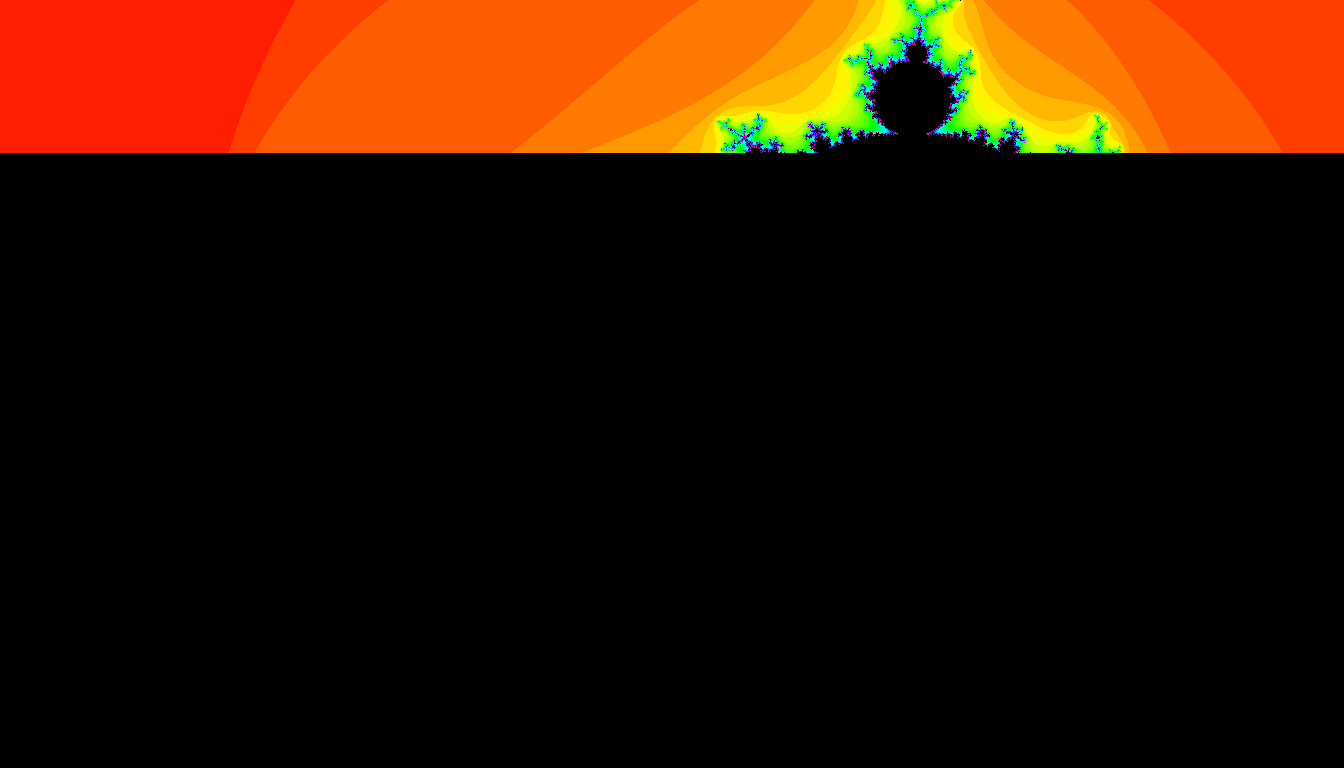
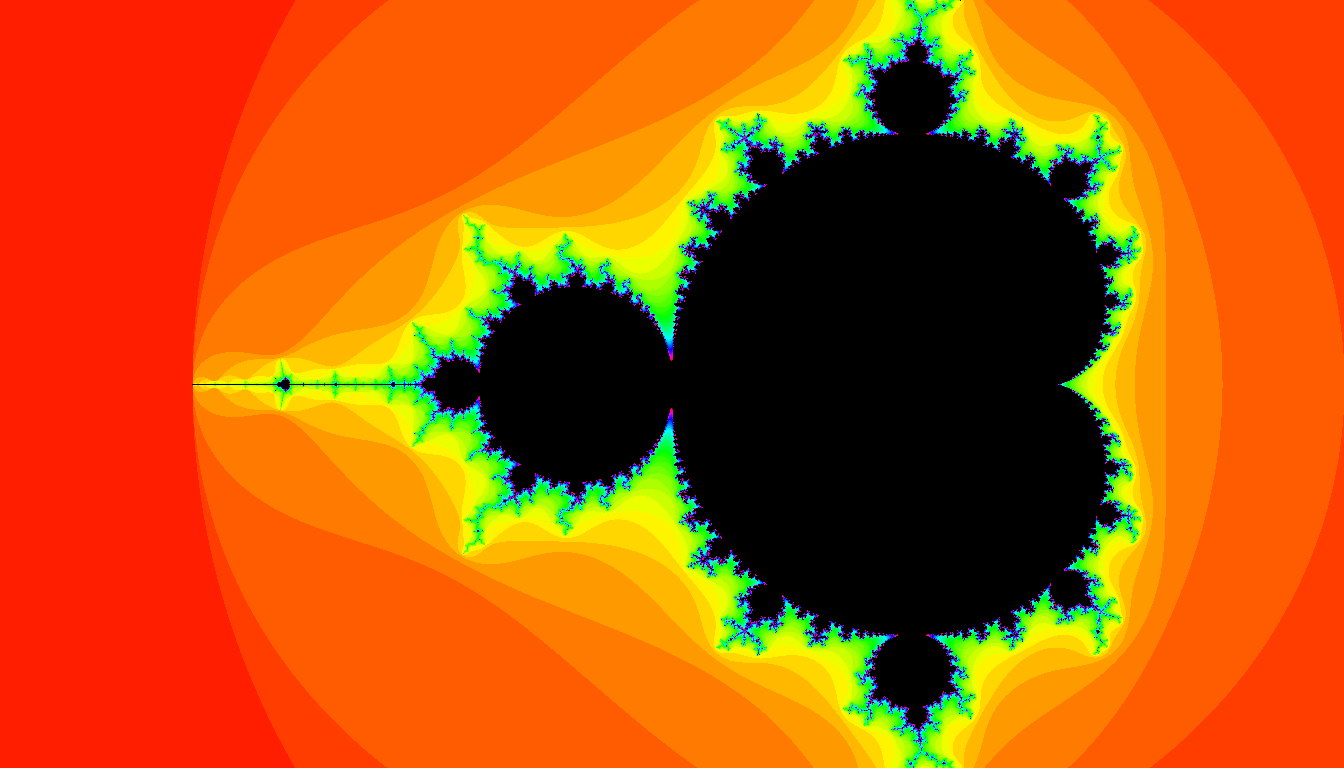
different approach, now dividing in main based on rank instead of in calcManedlbrot

diff --git a/assignments/02/mandelbrot_mpi.cpp b/assignments/02/mandelbrot_mpi.cpp
@@ -1,12 +1,12 @@
+#include <mpi.h>
 #include <bits/chrono.h>
-#include <chrono>
 #include <cstdint>
 #include <cstdlib>
 #include <iostream>
+#include <chrono>
 #include <sys/time.h>
 #include <tuple>
 #include <vector>
-#include "mpi.h"
 
 // Include that allows to print result as an image
 // Also, ignore some warnings that pop up when compiling this as C++ mode
@@ -15,7 +15,7 @@
 #pragma GCC diagnostic ignored "-Wstringop-overflow"
 #define STB_IMAGE_WRITE_IMPLEMENTATION
 #include "stb_image_write.h"
-#pragma GCC diagnostic push
+#pragma GCC diagnostic pop
 
 constexpr int default_size_x = 1344;
 constexpr int default_size_y = 768;
@@ -27,139 +27,129 @@ constexpr int max_iterations = 10000;
 
 #define IND(Y, X, SIZE_Y, SIZE_X, CHANNEL) (Y * SIZE_X * num_channels + X * num_channels + CHANNEL)
 
-size_t index(int y, int x, int /*size_y*/, int size_x, int channel) { return y * size_x * num_channels + x * num_channels + channel; }
+size_t index(int y, int x, int /*size_y*/, int size_x, int channel) {
+    return y * size_x * num_channels + x * num_channels + channel;
+}
 
 using Image = std::vector<uint8_t>;
 
 auto HSVToRGB(double H, const double S, double V) {
-	if (H >= 1.0) {
-		V = 0.0;
-		H = 0.0;
-	}
+    if (H >= 1.0) {
+        V = 0.0;
+        H = 0.0;
+    }
 
-	const double step = 1.0 / 6.0;
-	const double vh = H / step;
+    const double step = 1.0 / 6.0;
+    const double vh = H / step;
 
-	const int i = (int)floor(vh);
+    const int i = (int)floor(vh);
 
-	const double f = vh - i;
-	const double p = V * (1.0 - S);
-	const double q = V * (1.0 - (S * f));
-	const double t = V * (1.0 - (S * (1.0 - f)));
-	double R = 0.0;
-	double G = 0.0;
-	double B = 0.0;
+    const double f = vh - i;
+    const double p = V * (1.0 - S);
+    const double q = V * (1.0 - (S * f));
+    const double t = V * (1.0 - (S * (1.0 - f)));
+    double R = 0.0;
+    double G = 0.0;
+    double B = 0.0;
 
-	// clang-format off
-	switch (i) {
-	case 0: { R = V; G = t; B = p; break; }
-	case 1: { R = q; G = V; B = p; break; }
-	case 2: { R = p; G = V; B = t; break; }
-	case 3: { R = p; G = q; B = V; break; }
-	case 4: { R = t; G = p; B = V; break; }
-	case 5: { R = V; G = p; B = q; break; }
-	}
-	// clang-format on
+    switch (i) {
+    case 0: { R = V; G = t; B = p; break; }
+    case 1: { R = q; G = V; B = p; break; }
+    case 2: { R = p; G = V; B = t; break; }
+    case 3: { R = p; G = q; B = V; break; }
+    case 4: { R = t; G = p; B = V; break; }
+    case 5: { R = V; G = p; B = q; break; }
+    }
 
-	return std::make_tuple(R, G, B);
+    return std::make_tuple(R, G, B);
 }
 
-void caclMandelbrotRow(Image &image, int size_x, int size_y, int start_row, int end_row, float left, float right, float bottom, float top) {
-	for (int pixel_y = start_row; pixel_y < end_row; pixel_y++) {
-		// scale y pixel into mandelbrot coordinate system
-		const float cy = (pixel_y / (float)size_y) * (top - bottom) + bottom;
-		for (int pixel_x = 0; pixel_x < size_x; pixel_x++) {
-			// scale x pixel into mandelbrot coordinate system
-			const float cx = (pixel_x / (float)size_x) * (right - left) + left;
-			float x = 0;
-			float y = 0;
-			int num_iterations = 0;
+void calcMandelbrot(Image &image, int size_x, int size_y, int start_y, int num_rows, int rank) {
 
-			// Check if the distance from the origin becomes
-			// greater than 2 within the max number of iterations.
-			while ((x * x + y * y <= 2 * 2) && (num_iterations < max_iterations)) {
-				float x_tmp = x * x - y * y + cx;
-				y = 2 * x * y + cy;
-				x = x_tmp;
-				num_iterations += 1;
-			}
+	std::cout << "Rank " << rank << " is calculating " << num_rows << " rows starting from " << start_y << " until " << start_y + size_y << std::endl;
 
-			// Normalize iteration and write it to pixel position
-			double value = fabs((num_iterations / (float)max_iterations)) * 200;
+    const float left = -2.5, right = 1;
+    const float bottom = -1, top = 1;
 
-			auto [red, green, blue] = HSVToRGB(value, 1.0, 1.0);
+    for (int pixel_y = start_y; pixel_y < start_y + num_rows; pixel_y++) {
+        const float cy = (pixel_y / (float)size_y) * (top - bottom) + bottom;
+        for (int pixel_x = 0; pixel_x < size_x; pixel_x++) {
+            const float cx = (pixel_x / (float)size_x) * (right - left) + left;
+            float x = 0;
+            float y = 0;
+            int num_iterations = 0;
 
-			int channel = 0;
-			image[index(pixel_y, pixel_x, size_y, size_x, channel++)] = (uint8_t)(red * UINT8_MAX);
-			image[index(pixel_y, pixel_x, size_y, size_x, channel++)] = (uint8_t)(green * UINT8_MAX);
-			image[index(pixel_y, pixel_x, size_y, size_x, channel++)] = (uint8_t)(blue * UINT8_MAX);
-		}
-	}
-}
+            while ((x * x + y * y <= 2 * 2) && (num_iterations < max_iterations)) {
+                float x_tmp = x * x - y * y + cx;
+                y = 2 * x * y + cy;
+                x = x_tmp;
+                num_iterations += 1;
+            }
 
-void calcMandelbrot(Image &image, int size_x, int size_y, int rank, int num_ranks) {
-	auto time_start = std::chrono::high_resolution_clock::now();
+            double value = fabs((num_iterations / (float)max_iterations)) * 200;
+            auto [red, green, blue] = HSVToRGB(value, 1.0, 1.0);
 
-	const float left = -2.5, right = 1;
-	const float bottom = -1, top = 1;
-
-	// TODOs for MPI parallelization
-	// 1) domain decomposition
-	//   - decide how to split the image into multiple parts
-	//   - ensure every rank is computing its own part only
-	// 2) result aggregation
-	//   - aggregate the individual parts of the ranks into a single, complete image on the root rank (rank 0)
-
-	// Determine the number of rows each rank will compute
-	int rows_per_rank = size_y / num_ranks;
-	// Determine the starting and ending rows for the current rank
-	int start_row = rank * rows_per_rank;
-	int end_row = start_row + rows_per_rank;
-
-	caclMandelbrotRow(image, size_x, size_y, start_row, end_row, left, right, bottom, top);
-	// Gather all the partial images from each rank to the root rank
-	std::vector<uint8_t> gathered_image;
-	if (rank == 0) {
-		gathered_image.resize(num_ranks * size_x * size_y * num_channels);
-	}
-	MPI_Gather(image.data(), image.size(), MPI_BYTE, gathered_image.data(), image.size(), MPI_UNSIGNED_CHAR, 0, MPI_COMM_WORLD);
-
-	// Save the gathered image on the root rank
-	if (rank == 0) {
-		constexpr int stride_bytes = 0;
-		stbi_write_png("mandelbrot_mpi.png", size_x, size_y * num_ranks, num_channels, gathered_image.data(), stride_bytes);
-	}
-
-	auto time_end = std::chrono::high_resolution_clock::now();
-	auto time_elapsed = std::chrono::duration_cast<std::chrono::milliseconds>(time_end - time_start).count();
-
-	std::cout << "Mandelbrot set calculation for " << size_x << "x" << size_y << " took: " << time_elapsed << " ms." << std::endl;
+            int channel = 0;
+            image[index(pixel_y - start_y, pixel_x, size_y, size_x, channel++)] = (uint8_t)(red * UINT8_MAX);
+            image[index(pixel_y - start_y, pixel_x, size_y, size_x, channel++)] = (uint8_t)(green * UINT8_MAX);
+            image[index(pixel_y - start_y, pixel_x, size_y, size_x, channel++)] = (uint8_t)(blue * UINT8_MAX);
+        }
+    }
 }
 
 int main(int argc, char **argv) {
-	MPI_Init(&argc, &argv);
-	int rank, num_ranks;
-	MPI_Comm_rank(MPI_COMM_WORLD, &rank);
-	MPI_Comm_size(MPI_COMM_WORLD, &num_ranks);
-	
-	int size_x = default_size_x;
-	int size_y = default_size_y;
+	// mpi stuff
+    MPI_Init(&argc, &argv);
+    int rank, size;
+    MPI_Comm_rank(MPI_COMM_WORLD, &rank);
+    MPI_Comm_size(MPI_COMM_WORLD, &size);
 
-	if (argc == 3) {
-		size_x = atoi(argv[1]);
-		size_y = atoi(argv[2]);
-		std::cout << "Using size " << size_x << "x" << size_y << std::endl;
-	} else {
-		std::cout << "No arguments given, using default size " << size_x << "x" << size_y << std::endl;
-	}
+    int size_x = default_size_x;
+    int size_y = default_size_y;
 
-	Image image(num_channels * size_x * size_y);
+    if (argc == 3) {
+        size_x = atoi(argv[1]);
+        size_y = atoi(argv[2]);
+        if (rank == 0) {
+            std::cout << "Using size " << size_x << "x" << size_y << std::endl;
+        }
+    } else {
+        if (rank == 0) {
+            std::cout << "No arguments given, using default size " << size_x << "x" << size_y << std::endl;
+        }
+    }
 
-	calcMandelbrot(image, size_x, size_y, 0, 5);
+	// -----
+    int num_rows_per_rank = size_y / size;
+    int start_y = rank * num_rows_per_rank; // slice based on rank
+    int num_rows = (rank == size - 1) ? (size_y - start_y) : num_rows_per_rank; // handle remainder if y is not divisible by size
 
-	constexpr int stride_bytes = 0;
-	stbi_write_png("mandelbrot_mpi.png", size_x, size_y, num_channels, image.data(), stride_bytes);
-	MPI_Finalize();
+	int sub_image_size = num_channels * size_x * num_rows;
+    Image sub_image(sub_image_size);
+    auto time_start = std::chrono::high_resolution_clock::now();
 
-	return EXIT_SUCCESS;
+	// compute mandelbrot locally, based on subimage
+    calcMandelbrot(sub_image, size_x, size_y, start_y, num_rows, rank);
+
+	// on root, gather all subimages and write to file
+    if (rank == 0) {
+        Image final_image(num_channels * size_x * size_y);
+        MPI_Gather(sub_image.data(), sub_image_size, MPI_UINT8_T,
+                   final_image.data(), sub_image_size, MPI_UINT8_T, 0, MPI_COMM_WORLD);
+
+		// stop time
+        auto time_end = std::chrono::high_resolution_clock::now();
+        auto time_elapsed = std::chrono::duration_cast<std::chrono::milliseconds>(time_end - time_start).count();
+        std::cout << "Mandelbrot set calculation for " << size_x << "x" << size_y << " took: " << time_elapsed << " ms." << std::endl;
+
+        constexpr int stride_bytes = 0;
+        stbi_write_png("mandelbrot_mpi.png", size_x, size_y, num_channels, final_image.data(), stride_bytes);
+    } else {
+		// if not root, send data to root (use nullptr to receive as seen in the lecture)
+        MPI_Gather(sub_image.data(), sub_image_size, MPI_UINT8_T,
+                   nullptr, 0, MPI_UINT8_T, 0, MPI_COMM_WORLD);
+    }
+
+    MPI_Finalize();
+    return EXIT_SUCCESS;
 }
